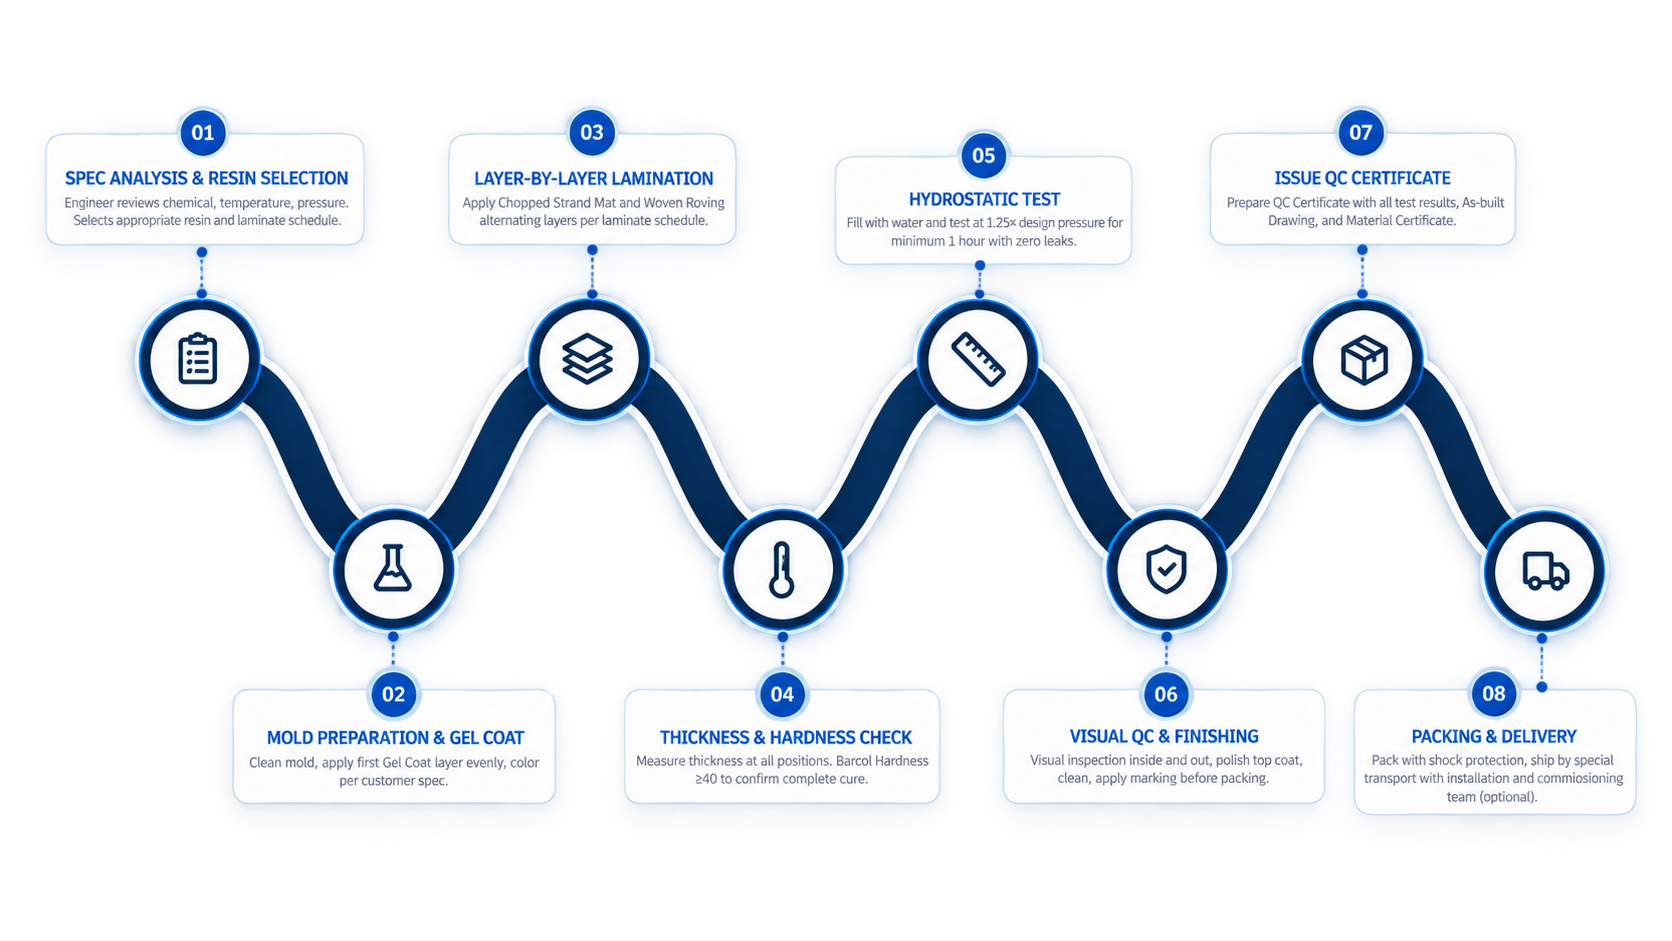
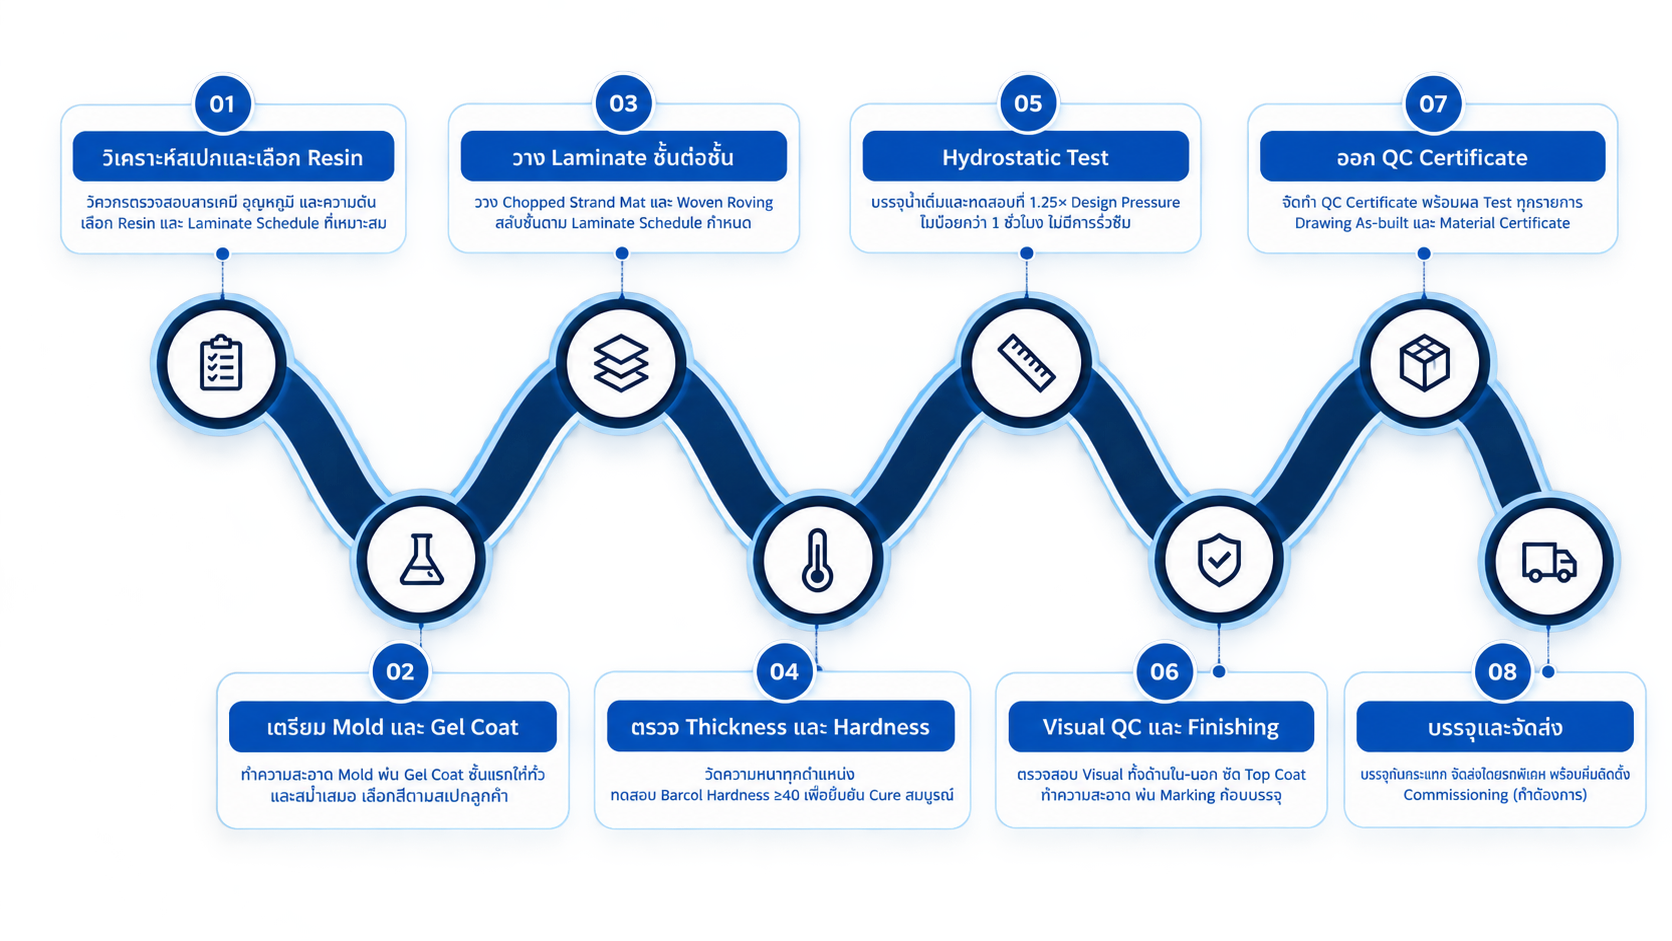
Polish quality/projects copy and split PE tank cleaning steps
Rebrand TANK-Q in quality page labels, darken subtitle text, break
long cleaning instructions into individual checklist items, reorder
PE underground tank images, and recategorize the PE waste water tank
under septic tank & grease trap.

Claude-Session: https://claude.ai/code/session_01AyLouH4gY6FW8pzoo9qsZn

Changed region(s): [[0.0311, 0.0616, 0.9952, 0.8937]]

diff --git a/src/lib/products.ts b/src/lib/products.ts
@@ -374,16 +374,28 @@ export const products: Product[] = [
         marker: "dot",
         items: [
           {
-            th: "การทำความสะอาดถังเก็บน้ำควรทำความสะอาดทุก ๆ 3 - 6 เดือน หรือไม่ควรเกิน 1 ปี",
-            en: "Clean the water tank every 3 to 6 months, and never leave it longer than a year",
+            th: "การทำความสะอาดถังเก็บน้ำควรทำความสะอาด",
+            en: "Clean the water tank",
           },
           {
-            th: "ใช้แปรงขนอ่อนหรือฟองน้ำขัดภายในตัวถังเก็บน้ำ หากถังเก็บน้ำที่มีขนาดที่ลึกควรใช้แปรงที่มีด้ามจับยาวช่วยทำความสะอาดเพื่อให้การทำความสะอาดได้ทั่วถึง",
-            en: "Scrub the inside of the tank with a soft-bristled brush or a sponge. For a deep tank, use a long-handled brush so every surface is reached",
+            th: "ทุก ๆ 3 - 6 เดือน หรือไม่ควรเกิน 1 ปี",
+            en: "Every 3 to 6 months, and never leave it longer than a year",
           },
           {
-            th: "ควรหลีกเลี่ยงแปรงที่มีขนเป็นโลหะ เหล็ก หรือฟองน้ำที่ทำจากเหล็ก",
-            en: "Avoid brushes with metal or steel bristles, and sponges made of steel wool",
+            th: "ใช้แปรงขนอ่อนหรือฟองน้ำขัดภายในตัวถังเก็บน้ำ",
+            en: "Scrub the inside of the tank with a soft-bristled brush or a sponge",
+          },
+          {
+            th: "หากถังเก็บน้ำที่มีขนาดที่ลึกควรใช้แปรงที่มีด้ามจับยาวช่วยทำความสะอาดเพื่อให้การทำความสะอาดได้ทั่วถึง",
+            en: "For a deep tank, use a long-handled brush so every surface is reached",
+          },
+          {
+            th: "ควรหลีกเลี่ยงแปรงที่มีขนเป็นโลหะหรือเหล็ก",
+            en: "Avoid brushes with metal or steel bristles",
+          },
+          {
+            th: "ควรหลีกเลี่ยงฟองน้ำที่ทำจากเหล็ก",
+            en: "Avoid sponges made of steel wool",
           },
           {
             th: "ห้ามใช้น้ำยาทำความสะอาดที่มีฤทธิ์เป็นกรดรุนแรง",
@@ -428,8 +440,8 @@ export const products: Product[] = [
       },
     ],
     images: [
-      "/images/products/pe-underground-water-tank/1.webp",
       "/images/products/pe-underground-water-tank/2.webp",
+      "/images/products/pe-underground-water-tank/1.webp",
       "/images/products/pe-underground-water-tank/3.webp",
     ],
     featured: false,
@@ -539,16 +551,28 @@ export const products: Product[] = [
         marker: "dot",
         items: [
           {
-            th: "การทำความสะอาดถังเก็บน้ำควรทำความสะอาดทุก ๆ 3 - 6 เดือน หรือไม่ควรเกิน 1 ปี",
-            en: "Clean the water tank every 3 to 6 months, and never leave it longer than a year",
+            th: "การทำความสะอาดถังเก็บน้ำควรทำความสะอาด",
+            en: "Clean the water tank",
           },
           {
-            th: "ใช้แปรงขนอ่อนหรือฟองน้ำขัดภายในตัวถังเก็บน้ำ หากถังเก็บน้ำที่มีขนาดที่ลึกควรใช้แปรงที่มีด้ามจับยาวช่วยทำความสะอาดเพื่อให้การทำความสะอาดได้ทั่วถึง",
-            en: "Scrub the inside of the tank with a soft-bristled brush or a sponge. For a deep tank, use a long-handled brush so every surface is reached",
+            th: "ทุก ๆ 3 - 6 เดือน หรือไม่ควรเกิน 1 ปี",
+            en: "Every 3 to 6 months, and never leave it longer than a year",
           },
           {
-            th: "ควรหลีกเลี่ยงแปรงที่มีขนเป็นโลหะ เหล็ก หรือฟองน้ำที่ทำจากเหล็ก",
-            en: "Avoid brushes with metal or steel bristles, and sponges made of steel wool",
+            th: "ใช้แปรงขนอ่อนหรือฟองน้ำขัดภายในตัวถังเก็บน้ำ",
+            en: "Scrub the inside of the tank with a soft-bristled brush or a sponge",
+          },
+          {
+            th: "หากถังเก็บน้ำที่มีขนาดที่ลึกควรใช้แปรงที่มีด้ามจับยาวช่วยทำความสะอาดเพื่อให้การทำความสะอาดได้ทั่วถึง",
+            en: "For a deep tank, use a long-handled brush so every surface is reached",
+          },
+          {
+            th: "ควรหลีกเลี่ยงแปรงที่มีขนเป็นโลหะหรือเหล็ก",
+            en: "Avoid brushes with metal or steel bristles",
+          },
+          {
+            th: "ควรหลีกเลี่ยงฟองน้ำที่ทำจากเหล็ก",
+            en: "Avoid sponges made of steel wool",
           },
           {
             th: "ห้ามใช้น้ำยาทำความสะอาดที่มีฤทธิ์เป็นกรดรุนแรง",
@@ -569,7 +593,7 @@ export const products: Product[] = [
   {
     id: "pe-waste-water-treatment-tank",
     slug: "pe-waste-water-treatment-tank",
-    categoryId: "frp-wastewater-treatment-tank",
+    categoryId: "septic-tank-grease-trap",
     title: {
       th: "ถังบำบัดน้ำเสีย PE",
       en: "PE Waste Water Treatment Tank",

diff --git a/src/app/[locale]/quality/page.tsx b/src/app/[locale]/quality/page.tsx
@@ -34,10 +34,10 @@ export default async function QualityPage({ params }: PageProps<"/[locale]/quali
           <h1 className="text-3xl leading-[1] font-black tracking-tight text-primary uppercase sm:text-4xl md:text-5xl lg:text-6xl">
             {t("title")}
           </h1>
-          <p className="mt-6 max-w-2xl text-pretty text-sm text-muted-foreground sm:text-base">
+          <p className="mt-6 max-w-2xl text-pretty text-sm font-medium text-black sm:text-base">
             {t("subtitle")}
           </p>
-          <div className="mb-40 mt-8 h-px w-40 bg-neutral-500 sm:mb-14 sm:mt-10" />
+          <div className="mb-10 mt-8 h-px w-40 bg-neutral-500 sm:mb-14 sm:mt-10" />
         </FadeInUp>
 
         <FadeInUp>

diff --git a/src/app/[locale]/projects/page.tsx b/src/app/[locale]/projects/page.tsx
@@ -34,7 +34,7 @@ export default async function ProjectsPage({ params }: PageProps<"/[locale]/proj
           <h1 className="text-3xl leading-[1] font-black tracking-tight text-primary uppercase sm:text-4xl md:text-5xl lg:text-6xl">
             {t("title")}
           </h1>
-          <p className="mt-6 max-w-2xl text-pretty text-sm text-muted-foreground sm:text-base">
+          <p className="mt-6 max-w-2xl text-pretty text-sm font-medium text-black sm:text-base">
             {t("subtitle")}
           </p>
           <div className="mt-8 h-px w-40 bg-neutral-500 sm:mt-10" />
